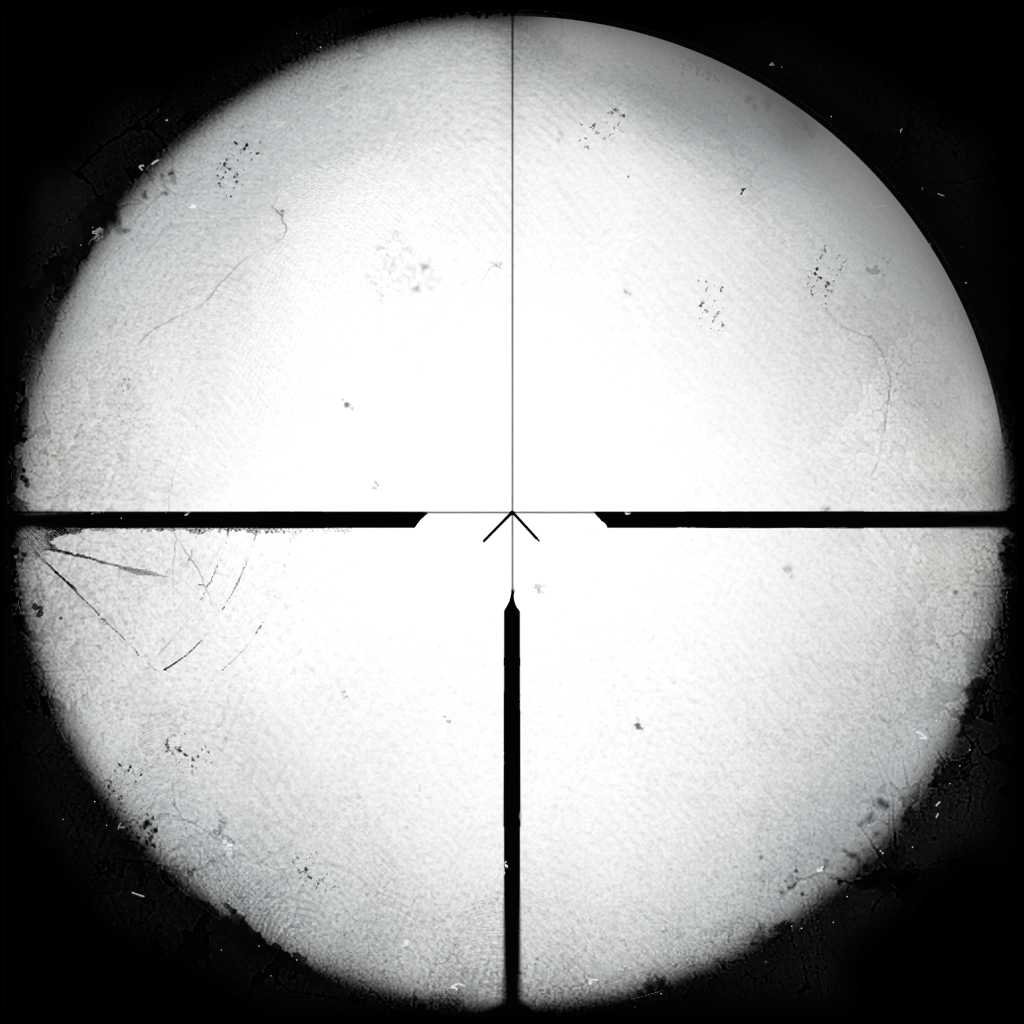
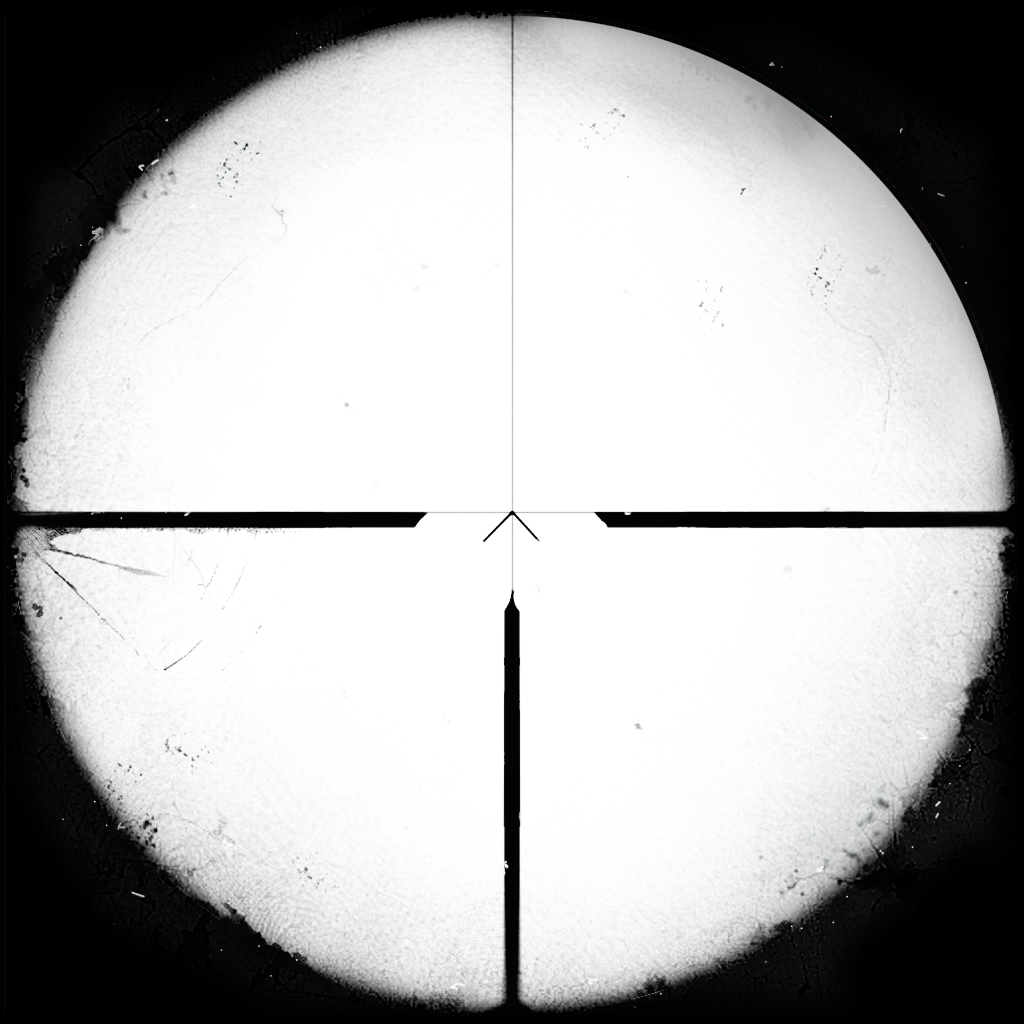
Fix: scope overlay PNGs — fill transparent areas with white RGB
ROOT CAUSE of dark scope:
  The Unlittwotexture shader multiplies $basetexture × $texture2 using
  the RGB values (not alpha). The transparent areas of the overlay PNGs
  had RGB=(0,0,0) (black), which made the RT dark:
    RT × 0 = 0 (black)

  Even though the alpha was 0 (transparent), the RGB values were still
  used in the multiplication, darkening the entire scope view.

FIX:
  Filled transparent areas with white RGB=(255,255,255):
    RT × 1 = RT (no darkening, RT shows through!)

  Semi-transparent pixels (anti-aliased reticle edges) were blended
  toward white to prevent dark halos around the crosshair.

  ~800,000 pixels adjusted per PNG (5 files total).

After re-importing to VTFEdit, the scope overlay will:
  - Show the bright RT 3D scene through the transparent areas
  - Show dark crosshair lines where the reticle is opaque
  - No more darkening!

Files changed:
  M materials/scopes/scope_overlay_american.png
  M materials/scopes/scope_overlay_britain.png
  M materials/scopes/scope_overlay_german.png
  M materials/scopes/scope_overlay_japanese.png
  M materials/scopes/scope_overlay_mp.png

diff --git a/scripts/fix_scope_overlay_pngs.py b/scripts/fix_scope_overlay_pngs.py
@@ -1,0 +1,72 @@
+#!/usr/bin/env python3
+"""
+Fix scope overlay PNGs: fill transparent areas with white RGB.
+
+The Unlittwotexture shader multiplies $basetexture × $texture2 using
+the RGB values (not alpha). Transparent areas with RGB=(0,0,0) make
+the RT dark (RT × 0 = 0).
+
+Fix: set transparent pixels to RGB=(255,255,255) so the RT shows
+through (RT × 1 = RT). The crosshair stays dark (RT × 0 = black lines).
+"""
+
+from PIL import Image
+import os
+
+SCOPES_DIR = "/home/z/my-project/wwiiunderhell_kate/materials/scopes"
+
+PNG_FILES = [
+    "scope_overlay_american.png",
+    "scope_overlay_britain.png",
+    "scope_overlay_german.png",
+    "scope_overlay_japanese.png",
+    "scope_overlay_mp.png",
+]
+
+
+def fix_png(filepath):
+    """Fill transparent areas with white RGB, preserve alpha."""
+    img = Image.open(filepath).convert("RGBA")
+    pixels = img.load()
+    width, height = img.size
+
+    changed = 0
+    for y in range(height):
+        for x in range(width):
+            r, g, b, a = pixels[x, y]
+            if a == 0:
+                # Fully transparent — set RGB to white
+                pixels[x, y] = (255, 255, 255, 0)
+                changed += 1
+            elif a < 255:
+                # Semi-transparent — blend toward white
+                # (keeps the reticle edges anti-aliased but not dark)
+                ratio = a / 255.0
+                new_r = int(r * ratio + 255 * (1 - ratio))
+                new_g = int(g * ratio + 255 * (1 - ratio))
+                new_b = int(b * ratio + 255 * (1 - ratio))
+                pixels[x, y] = (new_r, new_g, new_b, a)
+                changed += 1
+
+    img.save(filepath)
+    return changed
+
+
+def main():
+    print(f"Fixing {len(PNG_FILES)} scope overlay PNGs...")
+    for fname in PNG_FILES:
+        filepath = os.path.join(SCOPES_DIR, fname)
+        if not os.path.exists(filepath):
+            print(f"  MISSING: {fname}")
+            continue
+        changed = fix_png(filepath)
+        print(f"  FIXED: {fname} ({changed} pixels adjusted)")
+    print("\nDone! Re-import these PNGs in VTFEdit with:")
+    print("  - Texture Format: DXT5")
+    print("  - Gamma Correction: Checked (2.20)")
+    print("  - Texture Type: 2D Texture (NOT Volume)")
+    print("  - Generate Mipmaps: Checked")
+
+
+if __name__ == "__main__":
+    main()
